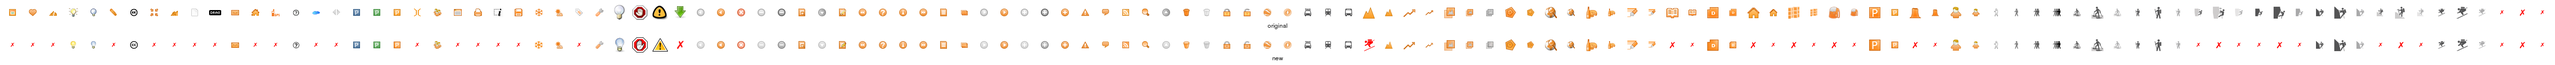
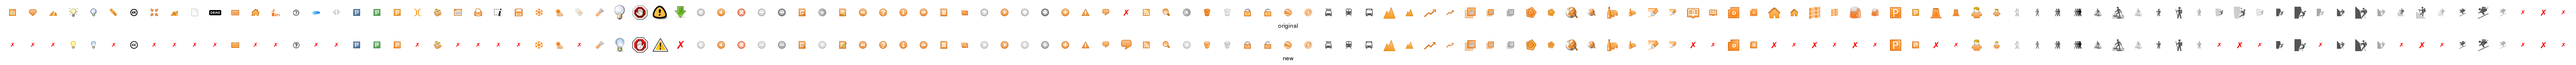
picto for forum - topics and posts title
git-svn-id: https://dev.camptocamp.org/svn/c2corg@4482 5b3c568a-86f9-4a59-a47a-7be284f604b4

Changed region(s): [[0.0, 0.0882, 0.9959, 0.2941], [0.0, 0.5882, 0.9959, 0.7941]]

diff --git a/web/static/css/img.css b/web/static/css/img.css
@@ -298,6 +298,11 @@ a.external_link, .htext .hextra a.external_link {
[1 lines of base64/hex data omitted]
 }
 
+/* picto/comment_big.png */
+.img_title_forums {
[1 lines of base64/hex data omitted]
+}
+
 /* picto/gps.png */
 .action_gps {
[1 lines of base64/hex data omitted]

diff --git a/web/static/css/forums.css b/web/static/css/forums.css
@@ -773,10 +773,6 @@ div.inew {
     font-size: 1.4em;
 }
 
-.pun .article_title {
-    font-size: 24px;
-}
-
 /* 2.4 Larger text for particular items */
 
 div.postmsg p {

diff --git a/web/static/css/mobile.css b/web/static/css/mobile.css
@@ -220,11 +220,6 @@ input.long_input
   overflow: hidden;
 }
 
-.pun .article_title
-{
-  font-size: 20px;
-}
-
 div.postleft
 {
   width: 100%;

diff --git a/web/forums/viewforum.php b/web/forums/viewforum.php
@@ -278,7 +278,7 @@ while($cur_subforum = $db->fetch_assoc($subforum_result))
 
 ?>
 <h1>
-    <span class="article_title_img action_comment"></span><span class="article_title"><?php echo $forum_name ?></span>
+    <span class="article_title_img img_title_forums"></span><span class="article_title"><?php echo $forum_name ?></span>
 </h1>
 <?php
 if($cur_forum['forum_desc'] != ''):

diff --git a/web/forums/viewtopic.php b/web/forums/viewtopic.php
@@ -266,7 +266,7 @@ define('PUN_ALLOW_INDEX', 1);
 require PUN_ROOT.'header.php';
 ?>
 <h1>
-    <span class="article_title_img action_comment"></span><span class="article_title"><?php echo $subject ?></span>
+    <span class="article_title_img img_title_forums"></span><span class="article_title"><?php echo $subject ?></span>
 </h1>
 <div class="postlinkst">
 	<div class="inbox">
